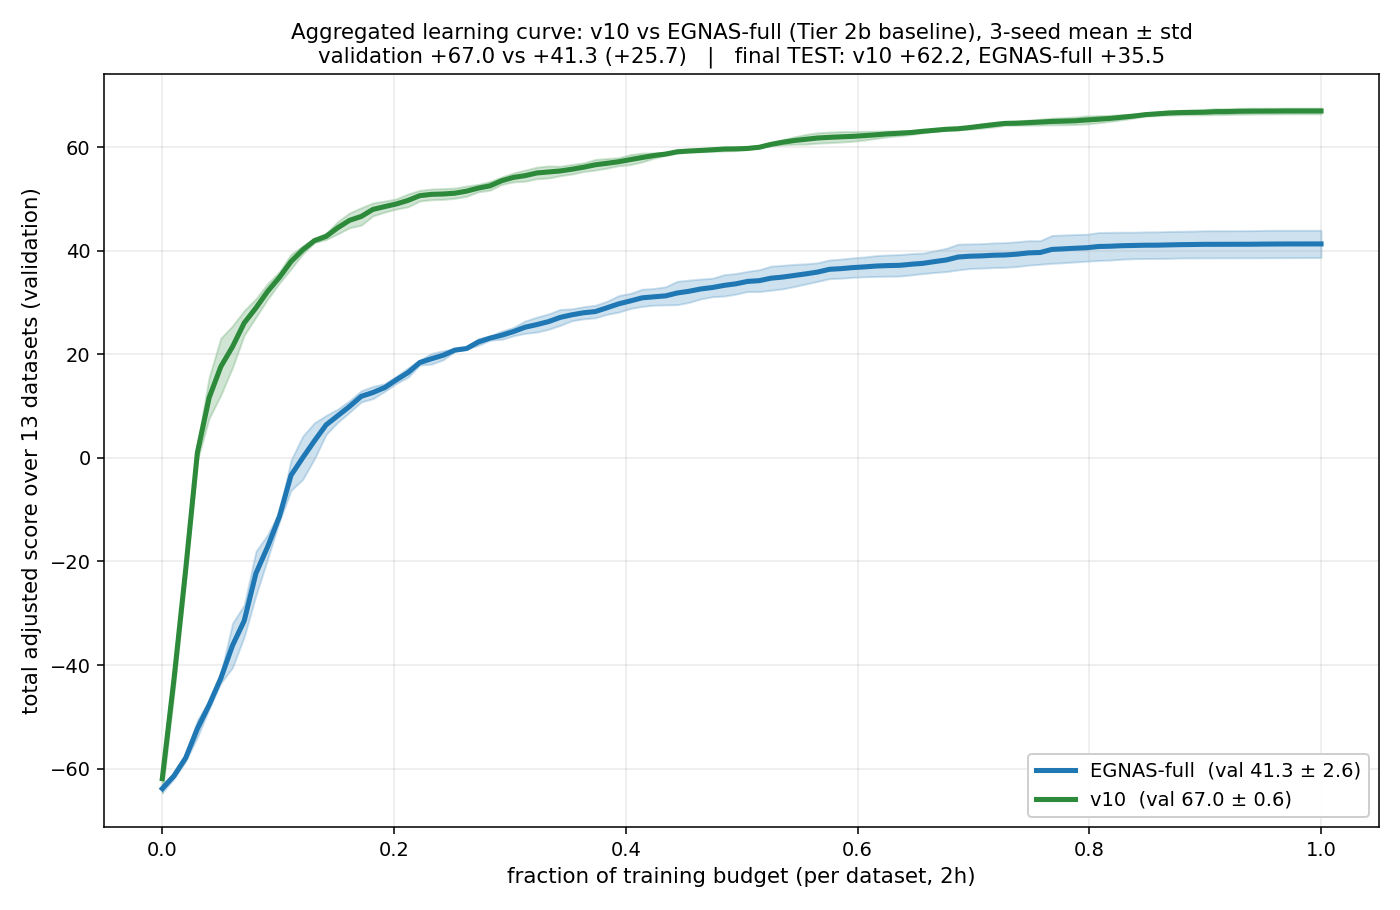
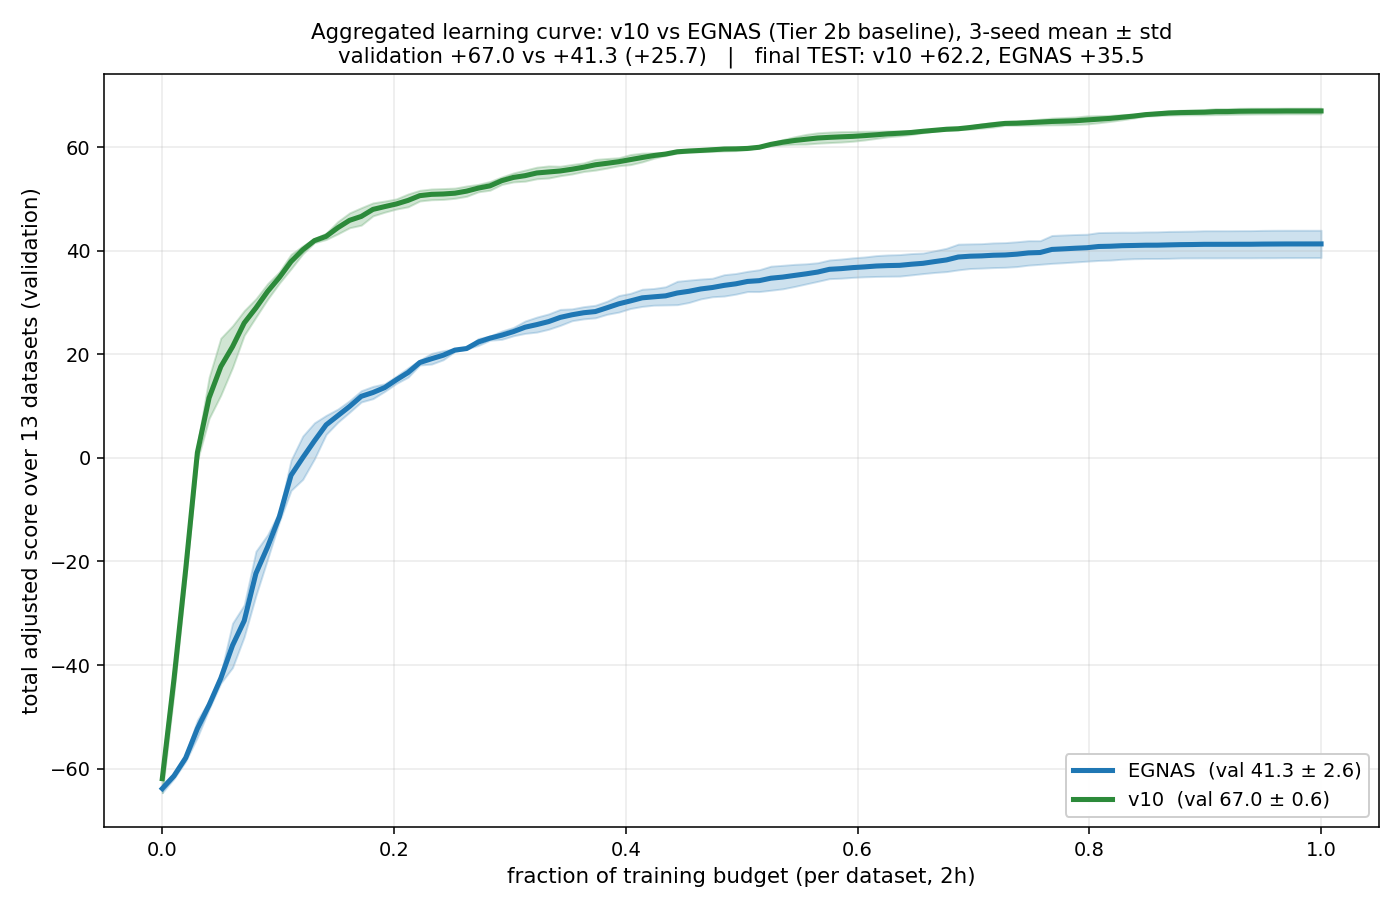
EGNAS comparison figures: label as 'EGNAS' not 'EGNAS-full'

Changed region(s): [[0.215, 0.0308, 0.86, 0.0923], [0.7371, 0.8308, 0.9521, 0.8923], [0.9521, 0.8308, 0.9829, 0.8615]]

diff --git a/dev/plot_v10_vs_egnas.py b/dev/plot_v10_vs_egnas.py
@@ -1,5 +1,5 @@
 #!/usr/bin/env python3
-"""v10 vs EGNAS-full (Tier 2b, the 2025-winner reimplementation = our method
+"""v10 vs EGNAS (Tier 2b, the 2025-winner reimplementation = our method
 baseline), aggregated over 3 seeds (42/1337/2024), on all 13 datasets.
 
 Two figures:
@@ -83,7 +83,7 @@ fig, axes = plt.subplots(4, 4, figsize=(19, 17), squeeze=False)
 flat = axes.flatten()
 for ax, (name, code, bench) in zip(flat, DATASETS):
     lo, hi = 100.0, 0.0
-    for pathfn, col, lab in ((v10_path, V10C, "v10"), (egnas_path, EGC, "EGNAS-full")):
+    for pathfn, col, lab in ((v10_path, V10C, "v10"), (egnas_path, EGC, "EGNAS")):
         b = band(pathfn, code)
         if b is None:
             continue
@@ -106,18 +106,18 @@ for ax, (name, code, bench) in zip(flat, DATASETS):
     ax.grid(alpha=0.25); ax.legend(loc="lower right", fontsize=8, framealpha=0.92)
 ax = flat[len(DATASETS)]; ax.axis("off")
 ax.text(0.02, 0.98,
-        "v10 vs EGNAS-full (Tier 2b,\n2025-winner reimplementation)\n\n"
-        "green = v10, blue = EGNAS-full\n"
+        "v10 vs EGNAS (Tier 2b,\n2025-winner reimplementation)\n\n"
+        "green = v10, blue = EGNAS\n"
         "  band = +/- std over 3 seeds\n"
         "red dashed = ResNet-18 benchmark\n\n"
         "total adjusted (test):\n"
-        "  v10        +62.2\n"
-        "  EGNAS-full +35.5\n"
+        "  v10    +62.2\n"
+        "  EGNAS  +35.5\n"
         "  -> +26.7 over the baseline",
         transform=ax.transAxes, fontsize=10.5, va="top", family="monospace")
 for j in range(len(DATASETS) + 1, len(flat)):
     flat[j].axis("off")
-fig.suptitle("v10 vs EGNAS-full per-dataset learning curves, aggregated over 3 seeds (mean ± std)", fontsize=15)
+fig.suptitle("v10 vs EGNAS per-dataset learning curves, aggregated over 3 seeds (mean ± std)", fontsize=15)
 fig.tight_layout(rect=[0, 0, 1, 0.97])
 out1 = IMG / "v10_vs_egnas_curves_grid_3seed.png"
 fig.savefig(out1, dpi=125); plt.close(fig)
@@ -144,16 +144,16 @@ def total_per_seed(pathfn):
 v10_t = total_per_seed(v10_path)
 eg_t = total_per_seed(egnas_path)
 fig, ax = plt.subplots(figsize=(10, 6.5))
-for arr, col, lab in ((eg_t, EGC, "EGNAS-full"), (v10_t, V10C, "v10")):
+for arr, col, lab in ((eg_t, EGC, "EGNAS"), (v10_t, V10C, "v10")):
     m, sd = arr.mean(0), arr.std(0)
     ax.fill_between(GRID, m - sd, m + sd, color=col, alpha=0.22)
     ax.plot(GRID, m, color=col, linewidth=2.6, label=f"{lab}  (val {m[-1]:.1f} ± {sd[-1]:.1f})")
 ax.set_xlabel("fraction of training budget (per dataset, 2h)", fontsize=11)
 ax.set_ylabel("total adjusted score over 13 datasets (validation)", fontsize=11)
 gap = v10_t.mean(0)[-1] - eg_t.mean(0)[-1]
-ax.set_title("Aggregated learning curve: v10 vs EGNAS-full (Tier 2b baseline), 3-seed mean ± std\n"
+ax.set_title("Aggregated learning curve: v10 vs EGNAS (Tier 2b baseline), 3-seed mean ± std\n"
              f"validation +{v10_t.mean(0)[-1]:.1f} vs +{eg_t.mean(0)[-1]:.1f} (+{gap:.1f})   |   "
-             "final TEST: v10 +62.2, EGNAS-full +35.5", fontsize=11)
+             "final TEST: v10 +62.2, EGNAS +35.5", fontsize=11)
 ax.grid(alpha=0.25); ax.legend(loc="lower right", fontsize=10, framealpha=0.95)
 fig.tight_layout()
 out2 = IMG / "v10_vs_egnas_aggregate_curve.png"
